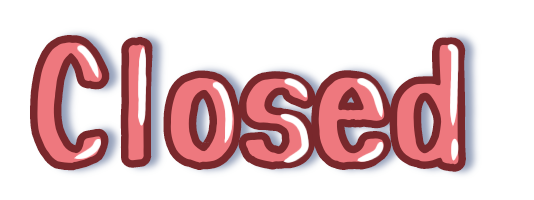
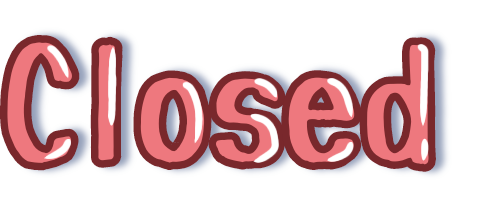
revamped commission page

diff --git a/src/styles/global.css b/src/styles/global.css
@@ -715,18 +715,6 @@ h1 {
   0%, 100% { transform: translateY(0); }
   50% { transform: translateY(-10px); }
 }
-/* mirrors .article-grid's column order — portrait on the right, text
-   snug on the left — for sections that want the floating character
-   on the opposite side (commissions page intro). Sized up a bit from the
-   shared 260px default and nudged left with a negative margin so she
-   doesn't sit flush against the edge. */
-.comm-intro-grid {
-  grid-template-columns: 1fr 300px;
-}
-.comm-intro-grid .article-portrait {
-  max-width: 300px;
-  margin-left: -20px;
-}
 @media (max-width: 480px) {
   .article-grid {
     grid-template-columns: 1fr;
@@ -801,20 +789,19 @@ h1 {
 
 /* commissions page (src/pages/art/commissions.astro): open/closed status
    banners sit inline at a shared height since the source images share the
-   same 200px canvas height at different widths. Lives at the top of the
-   intro grid's text column (left-aligned with that text), not centered
-   across the whole page. */
+   same 200px canvas height at different widths. Centered under the main
+   banner at every width. */
 .comm-status {
   display: flex;
   align-items: center;
-  justify-content: flex-start;
-  gap: 12px;
-  margin: 0 0 14px;
+  justify-content: center;
+  gap: 14px;
+  margin: 0 0 20px;
 }
 .comm-status-label,
 .comm-status-value {
   display: block;
-  height: 56px;
+  height: 66px;
   width: auto;
 }
 
@@ -828,7 +815,23 @@ h1 {
   gap: 20px;
   margin-top: 22px;
 }
+/* wraps one title banner + its .comm-tier row — the title spans/centers
+   over BOTH columns as a heading for the pair, rather than sitting only
+   above the sheet image, so the sheet and its text line up on one row. */
+.comm-tier-block {
+  display: flex;
+  flex-direction: column;
+  align-items: center;
+}
+.comm-tier-title {
+  display: block;
+  height: 54px;
+  width: auto;
+  max-width: 90%;
+  margin: 0 0 14px;
+}
 .comm-tier {
+  width: 100%;
   display: grid;
   grid-template-columns: 1fr 1fr;
   gap: 16px;
@@ -875,6 +878,12 @@ h1 {
 @media (max-width: 720px) {
   .comm-tier {
     grid-template-columns: 1fr;
+  }
+  /* .comm-sheet-thumb's 88% width has no auto margin since on desktop it
+     sits flush against its text column on purpose — but stacked full-width
+     on mobile that same flush-left alignment reads as oddly off-center. */
+  .comm-sheet-thumb {
+    margin: 0 auto;
   }
 }
 
